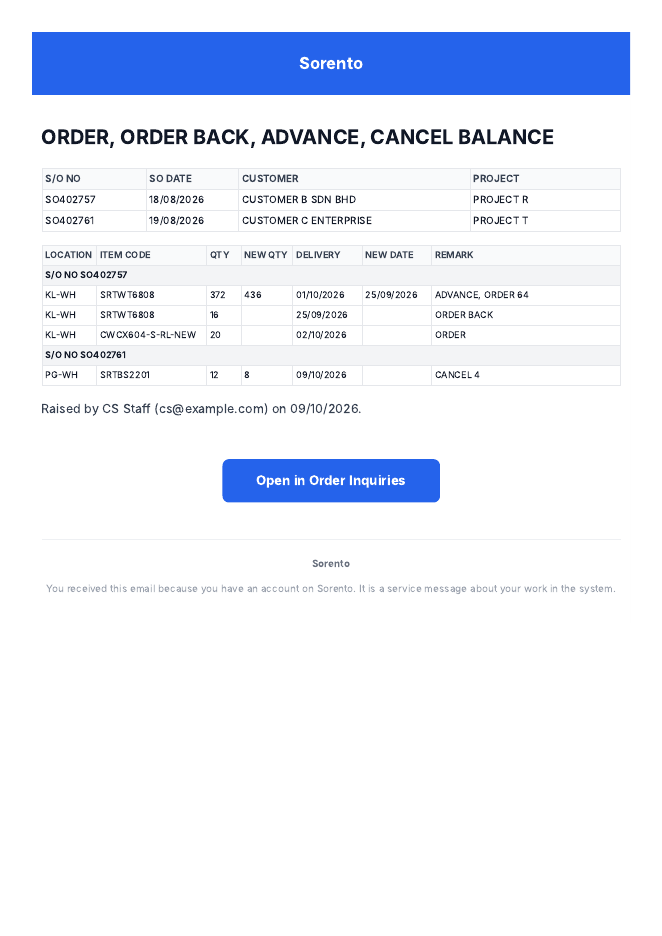
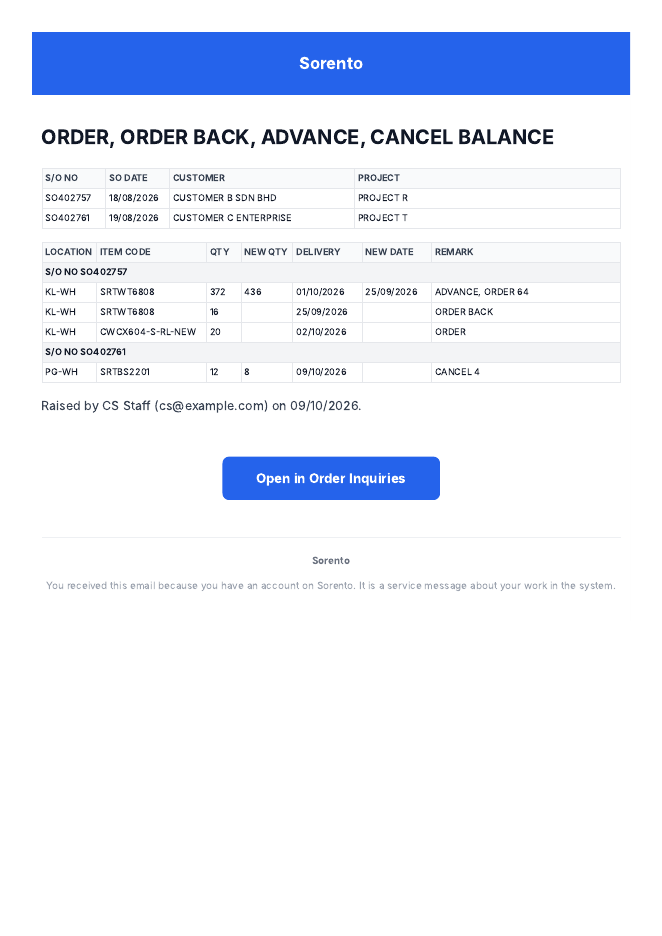
fix(scm): OI handover order table gives PROJECT the room (OI-EMAIL-PRINT)
Owner retest (SO421287): PROJECT wrapped to 4 lines while S/O NO and SO DATE sat in empty
width. The order table is now 11px like the line table, S/O NO and SO DATE at their
no-wrap minimum (11% each), CUSTOMER 32%, PROJECT 46%; width attributes and styles alike.

Claude-Session: https://claude.ai/code/session_0128QV6Rszh9fo9ABpWJyzZC

diff --git a/documentation/plans/scm/evidence/oi-email-print/print_check.js b/documentation/plans/scm/evidence/oi-email-print/print_check.js
@@ -3,7 +3,7 @@ const fs = require('fs');
 const dir = process.argv[2];
 (async () => {
   const b = await chromium.launch({ executablePath: '/opt/pw-browsers/chromium-1194/chrome-linux/chrome' });
-  for (const c of ['case1', 'case2', 'case3', 'case4', 'case5', 'case6', 'case7']) {
+  for (const c of ['case1', 'case2', 'case3', 'case4', 'case5', 'case6', 'case7', 'case8']) {
     const p = await b.newPage({ viewport: { width: 698, height: 1000 } });
     await p.setContent(fs.readFileSync(`${dir}/${c}.html`, 'utf8'));
     const m = await p.evaluate(() => {
@@ -20,7 +20,10 @@ const dir = process.argv[2];
       const tableW = Math.round(t[1].getBoundingClientRect().width);
       const remarkTd = [...t[1].querySelectorAll('tbody tr')].filter(r => r.children.length > 1).map(r => r.lastElementChild);
       const remarkSlack = Math.min(...remarkTd.map(td => { const rg = document.createRange(); rg.selectNodeContents(td); return Math.round(td.getBoundingClientRect().width - rg.getBoundingClientRect().width); }));
-      return { colW, tableW, remarkSlack, remarkLines, scrollWidth: document.documentElement.scrollWidth, card, rows: t[1].querySelectorAll('tbody tr').length, multi: [...new Set(multi)] };
+      const head = t[0];
+      const headCols = [...head.querySelectorAll('thead th')].map(th => th.textContent.trim() + ':' + Math.round(th.getBoundingClientRect().width));
+      const headLines = [...head.querySelectorAll('tbody td')].map(td => { const lh = parseFloat(getComputedStyle(td).lineHeight) || 16; const rg = document.createRange(); rg.selectNodeContents(td); return [td.textContent.trim().slice(0, 24), Math.round(rg.getBoundingClientRect().height / lh)]; });
+      return { headCols, headLines, colW, tableW, remarkSlack, remarkLines, scrollWidth: document.documentElement.scrollWidth, card, rows: t[1].querySelectorAll('tbody tr').length, multi: [...new Set(multi)] };
     });
     await p.emulateMedia({ media: 'print' });
     const pdf = await p.pdf({ preferCSSPageSize: true, printBackground: true });

diff --git a/sorento_crm_backend/alembic/versions/oihr_0005_print_one_page.py b/sorento_crm_backend/alembic/versions/oihr_0005_print_one_page.py
@@ -75,7 +75,7 @@ _PRINT_LAYOUT = json.loads(r'''{
    "type": "heading"
   },
   {
-   "html": "<table width=\"100%\" style=\"font-size:12px;line-height:16px;\">\n  <thead>\n    <tr><th width=\"18%\" style=\"width:18%;white-space:nowrap;padding:4px;\">S/O NO</th><th width=\"16%\" style=\"width:16%;white-space:nowrap;padding:4px;\">SO DATE</th><th width=\"40%\" style=\"width:40%;white-space:nowrap;padding:4px;\">CUSTOMER</th><th width=\"26%\" style=\"width:26%;white-space:nowrap;padding:4px;\">PROJECT</th></tr>\n  </thead>\n  <tbody>\n    {% for order in handover.orders %}\n    <tr>\n      <td style=\"white-space:nowrap;padding:4px;\">{{ order.so_number | default(\"\", true) }}</td>\n      <td style=\"white-space:nowrap;padding:4px;\">{{ order.so_date | default(\"\", true) }}</td>\n      <td style=\"padding:4px;\">{{ order.customer | default(\"\", true) }}</td>\n      <td style=\"padding:4px;\">{{ order.project | default(\"\", true) }}</td>\n    </tr>\n    {% endfor %}\n  </tbody>\n</table>\n{%- set cols = namespace(qty=false, delivery_date=false) -%}{%- for line in handover.lines -%}{%- if line.was and line.was.qty %}{% set cols.qty = true %}{% endif -%}{%- if line.was and line.was.delivery_date %}{% set cols.delivery_date = true %}{% endif -%}{%- endfor -%}\n{%- set span = 5 + (1 if cols.qty else 0) + (1 if cols.delivery_date else 0) -%}\n{%- set grouped = handover.orders | length > 1 -%}\n{%- if cols.qty and cols.delivery_date %}{% set w = namespace(loc=9, code=19, qty=6, new_qty=9, dd=12, new_dd=12, remark=33) %}\n{%- elif cols.qty %}{% set w = namespace(loc=12, code=24, qty=9, new_qty=11, dd=16, new_dd=0, remark=28) %}\n{%- elif cols.delivery_date %}{% set w = namespace(loc=12, code=23, qty=9, new_qty=0, dd=15, new_dd=15, remark=26) %}\n{%- else %}{% set w = namespace(loc=14, code=28, qty=10, new_qty=0, dd=18, new_dd=0, remark=30) %}{% endif -%}\n<table width=\"100%\" style=\"font-size:11px;line-height:15px;\">\n  <thead style=\"display:table-header-group;\">\n    <tr>\n      <th width=\"{{ w.loc }}%\" style=\"width:{{ w.loc }}%;white-space:nowrap;padding:4px;\">LOCATION</th><th width=\"{{ w.code }}%\" style=\"width:{{ w.code }}%;white-space:nowrap;padding:4px;\">ITEM CODE</th>\n      <th width=\"{{ w.qty }}%\" style=\"width:{{ w.qty }}%;white-space:nowrap;padding:4px;\">QTY</th>{% if cols.qty %}<th width=\"{{ w.new_qty }}%\" style=\"width:{{ w.new_qty }}%;white-space:nowrap;padding:4px;\">NEW QTY</th>{% endif %}\n      <th width=\"{{ w.dd }}%\" style=\"width:{{ w.dd }}%;white-space:nowrap;padding:4px;\">DELIVERY</th>{% if cols.delivery_date %}<th width=\"{{ w.new_dd }}%\" style=\"width:{{ w.new_dd }}%;white-space:nowrap;padding:4px;\">NEW DATE</th>{% endif %}\n      <th width=\"{{ w.remark }}%\" style=\"width:{{ w.remark }}%;white-space:nowrap;padding:4px;\">REMARK</th>\n    </tr>\n  </thead>\n  <tbody>\n    {% for line in handover.lines %}\n    {% if grouped and (loop.first or line.so_number != loop.previtem.so_number) %}\n    <tr style=\"page-break-inside:avoid;\"><td colspan=\"{{ span }}\" style=\"white-space:nowrap;padding:4px;background-color:#f3f4f6;font-weight:600;\">S/O NO {{ line.so_number | default(\"\", true) }}</td></tr>\n    {% endif %}\n    <tr style=\"page-break-inside:avoid;\">\n      <td style=\"white-space:nowrap;padding:4px;\">{{ line.location | default(\"\", true) }}</td>\n      <td style=\"white-space:nowrap;padding:4px;\">{{ line.item_code | default(\"\", true) }}</td>\n      <td style=\"white-space:nowrap;padding:4px;\">{% if line.was and line.was.qty %}{{ line.was.qty }}{% else %}{{ line.qty | default(\"\", true) }}{% endif %}</td>\n      {% if cols.qty %}<td style=\"white-space:nowrap;padding:4px;\">{% if line.was and line.was.qty %}{{ line.qty | default(\"\", true) }}{% endif %}</td>{% endif %}\n      <td style=\"white-space:nowrap;padding:4px;\">{% if line.was and line.was.delivery_date %}{{ line.was.delivery_date }}{% else %}{{ line.delivery_date | default(\"\", true) }}{% endif %}</td>\n      {% if cols.delivery_date %}<td style=\"white-space:nowrap;padding:4px;\">{% if line.was and line.was.delivery_date %}{{ line.delivery_date | default(\"\", true) }}{% endif %}</td>{% endif %}\n      <td style=\"padding:4px;\">{{ line.remark | default(\"\", true) }}{% if line.attachments %}<br>Attachments: {% for a in line.attachments %}{% if not loop.first %}, {% endif %}{% if a.attached %}{{ a.name }}{% else %}<a href=\"{{ a.url }}\">{{ a.name }}</a> (not attached, too large for email){% endif %}{% endfor %}{% endif %}</td>\n    </tr>\n    {% endfor %}\n  </tbody>\n</table>\n<p>Raised by {{ actor.name if actor else '-' }}{% if actor %} ({{ actor.email }}){% endif %} on {{ today }}.</p>",
+   "html": "<table width=\"100%\" style=\"font-size:11px;line-height:15px;\">\n  <thead>\n    <tr><th width=\"11%\" style=\"width:11%;white-space:nowrap;padding:4px;\">S/O NO</th><th width=\"11%\" style=\"width:11%;white-space:nowrap;padding:4px;\">SO DATE</th><th width=\"32%\" style=\"width:32%;white-space:nowrap;padding:4px;\">CUSTOMER</th><th width=\"46%\" style=\"width:46%;white-space:nowrap;padding:4px;\">PROJECT</th></tr>\n  </thead>\n  <tbody>\n    {% for order in handover.orders %}\n    <tr>\n      <td style=\"white-space:nowrap;padding:4px;\">{{ order.so_number | default(\"\", true) }}</td>\n      <td style=\"white-space:nowrap;padding:4px;\">{{ order.so_date | default(\"\", true) }}</td>\n      <td style=\"padding:4px;\">{{ order.customer | default(\"\", true) }}</td>\n      <td style=\"padding:4px;\">{{ order.project | default(\"\", true) }}</td>\n    </tr>\n    {% endfor %}\n  </tbody>\n</table>\n{%- set cols = namespace(qty=false, delivery_date=false) -%}{%- for line in handover.lines -%}{%- if line.was and line.was.qty %}{% set cols.qty = true %}{% endif -%}{%- if line.was and line.was.delivery_date %}{% set cols.delivery_date = true %}{% endif -%}{%- endfor -%}\n{%- set span = 5 + (1 if cols.qty else 0) + (1 if cols.delivery_date else 0) -%}\n{%- set grouped = handover.orders | length > 1 -%}\n{%- if cols.qty and cols.delivery_date %}{% set w = namespace(loc=9, code=19, qty=6, new_qty=9, dd=12, new_dd=12, remark=33) %}\n{%- elif cols.qty %}{% set w = namespace(loc=12, code=24, qty=9, new_qty=11, dd=16, new_dd=0, remark=28) %}\n{%- elif cols.delivery_date %}{% set w = namespace(loc=12, code=23, qty=9, new_qty=0, dd=15, new_dd=15, remark=26) %}\n{%- else %}{% set w = namespace(loc=14, code=28, qty=10, new_qty=0, dd=18, new_dd=0, remark=30) %}{% endif -%}\n<table width=\"100%\" style=\"font-size:11px;line-height:15px;\">\n  <thead style=\"display:table-header-group;\">\n    <tr>\n      <th width=\"{{ w.loc }}%\" style=\"width:{{ w.loc }}%;white-space:nowrap;padding:4px;\">LOCATION</th><th width=\"{{ w.code }}%\" style=\"width:{{ w.code }}%;white-space:nowrap;padding:4px;\">ITEM CODE</th>\n      <th width=\"{{ w.qty }}%\" style=\"width:{{ w.qty }}%;white-space:nowrap;padding:4px;\">QTY</th>{% if cols.qty %}<th width=\"{{ w.new_qty }}%\" style=\"width:{{ w.new_qty }}%;white-space:nowrap;padding:4px;\">NEW QTY</th>{% endif %}\n      <th width=\"{{ w.dd }}%\" style=\"width:{{ w.dd }}%;white-space:nowrap;padding:4px;\">DELIVERY</th>{% if cols.delivery_date %}<th width=\"{{ w.new_dd }}%\" style=\"width:{{ w.new_dd }}%;white-space:nowrap;padding:4px;\">NEW DATE</th>{% endif %}\n      <th width=\"{{ w.remark }}%\" style=\"width:{{ w.remark }}%;white-space:nowrap;padding:4px;\">REMARK</th>\n    </tr>\n  </thead>\n  <tbody>\n    {% for line in handover.lines %}\n    {% if grouped and (loop.first or line.so_number != loop.previtem.so_number) %}\n    <tr style=\"page-break-inside:avoid;\"><td colspan=\"{{ span }}\" style=\"white-space:nowrap;padding:4px;background-color:#f3f4f6;font-weight:600;\">S/O NO {{ line.so_number | default(\"\", true) }}</td></tr>\n    {% endif %}\n    <tr style=\"page-break-inside:avoid;\">\n      <td style=\"white-space:nowrap;padding:4px;\">{{ line.location | default(\"\", true) }}</td>\n      <td style=\"white-space:nowrap;padding:4px;\">{{ line.item_code | default(\"\", true) }}</td>\n      <td style=\"white-space:nowrap;padding:4px;\">{% if line.was and line.was.qty %}{{ line.was.qty }}{% else %}{{ line.qty | default(\"\", true) }}{% endif %}</td>\n      {% if cols.qty %}<td style=\"white-space:nowrap;padding:4px;\">{% if line.was and line.was.qty %}{{ line.qty | default(\"\", true) }}{% endif %}</td>{% endif %}\n      <td style=\"white-space:nowrap;padding:4px;\">{% if line.was and line.was.delivery_date %}{{ line.was.delivery_date }}{% else %}{{ line.delivery_date | default(\"\", true) }}{% endif %}</td>\n      {% if cols.delivery_date %}<td style=\"white-space:nowrap;padding:4px;\">{% if line.was and line.was.delivery_date %}{{ line.delivery_date | default(\"\", true) }}{% endif %}</td>{% endif %}\n      <td style=\"padding:4px;\">{{ line.remark | default(\"\", true) }}{% if line.attachments %}<br>Attachments: {% for a in line.attachments %}{% if not loop.first %}, {% endif %}{% if a.attached %}{{ a.name }}{% else %}<a href=\"{{ a.url }}\">{{ a.name }}</a> (not attached, too large for email){% endif %}{% endfor %}{% endif %}</td>\n    </tr>\n    {% endfor %}\n  </tbody>\n</table>\n<p>Raised by {{ actor.name if actor else '-' }}{% if actor %} ({{ actor.email }}){% endif %} on {{ today }}.</p>",
    "type": "custom_text"
   },
   {

diff --git a/documentation/plans/scm/evidence/oi-email-print/render_real.py b/documentation/plans/scm/evidence/oi-email-print/render_real.py
@@ -95,7 +95,8 @@ cases = {
              stock_location="KL-WH"),
     ],
     "case6": [  # owner's hand test SO421287: one line, 5 columns, "ORDER, NEW ITEM CODE"
-        item("SO421287", "06/10/2026", "p7", "CUSTOMER H SDN BHD", "PROJECT Q", "raised", 1,
+        item("SO421287", "06/10/2026", "p7", "CUSTOMER H TRADING & ENGINEERING SDN BHD",
+             "CADANGAN PEMBANGUNAN 2 BLOK PANGSAPURI SERVIS 38 TINGKAT DI LOT 1234, MUKIM BATU, KUALA LUMPUR", "raised", 1,
              verb=IV_ORDER, qty=12, delivery_date=D(2026, 11, 6), item_code="SRT382-6-DIY",
              stock_location="KL-WH", was={"item_code": "SRT382-6"}),
     ],
@@ -106,6 +107,12 @@ cases = {
         item("SO421300", "07/10/2026", "p8", "CUSTOMER J SDN BHD", "PROJECT W", "settled", 2,
              verb=IV_ORDER, qty=30, delivery_date=D(2026, 11, 13), item_code="SRT382-6-DIY",
              stock_location="KL-WH", was={"item_code": "SRT382-6", "qty": 24, "delivery_date": D(2026, 11, 6)}),
+    ],
+    "case8": [  # longest project text we model (150 chars) and a long customer
+        item("SO421400", "08/10/2026", "p9", "CUSTOMER K INTERIOR DESIGN AND BUILD SOLUTIONS (M) SDN BHD",
+             "CADANGAN MEMBINA DAN MENYIAPKAN 3 BLOK KONDOMINIUM 45 TINGKAT BESERTA KEMUDAHAN, TEMPAT LETAK KERETA DAN PUSAT KOMERSIAL DI ATAS LOT 5678, SEKSYEN 13",
+             "raised", 1, verb=IV_ORDER, qty=12, delivery_date=D(2026, 11, 6), item_code="SRTWT6808",
+             stock_location="KL-WH"),
     ],
     "case3": [  # long order: 42 lines
         item("SO418900", "01/10/2026", "p4", "CUSTOMER D SDN BHD", "PROJECT M", "raised", i,

diff --git a/sorento_crm_backend/tests/test_oi_email_print.py b/sorento_crm_backend/tests/test_oi_email_print.py
@@ -568,8 +568,9 @@ def test_line_table_columns_share_the_width_in_every_variant():
 
 def test_order_table_columns_have_fixed_shares():
     """AC-P15 (owner retest 9 Oct, SO421287: PROJECT wrapped to 4 lines while S/O NO and SO
-    DATE sat in empty width): the order table is 13/13/32/42, attribute and style alike.
-    S/O NO and SO DATE never wrap; PROJECT, the longest free text, gets the most room."""
+    DATE sat in empty width): the order table is 11/11/32/46 at 11px, attribute and style
+    alike. S/O NO and SO DATE never wrap at their minimal width (71px measured); PROJECT,
+    the longest free text, gets the most room."""
     orders = [{"so_number": "SO421287", "so_date": "02/10/2026", "customer": "C", "project": "P"}]
     out = _render(_ctx(orders, [_line("SO421287", "KL-WH", "X", "1", "06/11/2026", "ORDER")]))
     table = re.findall(r"<table.*?</table>", _authored(out["body_html"]), re.S)[0]
@@ -579,5 +580,8 @@ def test_order_table_columns_have_fixed_shares():
         styles = re.findall(r"[;\"]width:(\d+)%", tag)
         assert attr and styles == [attr.group(1)], tag
         got.append((text.strip(), int(attr.group(1))))
-    assert got == [("S/O NO", 13), ("SO DATE", 13), ("CUSTOMER", 32), ("PROJECT", 42)], got
+    assert got == [("S/O NO", 11), ("SO DATE", 11), ("CUSTOMER", 32), ("PROJECT", 46)], got
+    # Same 11px as the line table, so PROJECT holds about 48 characters a line.
+    # The shell writes its defaults first in the style; the last font-size is the one that wins.
+    assert re.findall(r"font-size:(\d+)px", table.split(">", 1)[0])[-1] == "11", table[:160]
 

diff --git a/documentation/plans/scm/oi-email-print-09oct-acceptance-criteria.md b/documentation/plans/scm/oi-email-print-09oct-acceptance-criteria.md
@@ -34,9 +34,14 @@ Plan: `PLAN-oi-email-print-09oct.md`. Mock: `ALIGN-oi-email-print-09oct.html`.
   line-table header carries an explicit percentage width (`width="N%"` attribute, mirrored in
   the style), summing to 100 in each variant; ITEM CODE is the widest fixed column and REMARK
   a moderate share (5 columns 14/28/10/18/30; +NEW QTY 12/24/9/11/16/28; +NEW DATE
-  12/23/9/15/15/26; 7 columns 9/19/6/9/12/12/33). The order table is 18/16/40/26. Every
+  12/23/9/15/15/26; 7 columns 9/19/6/9/12/12/33). Every
   REMARK, including `DELAY, ORDER 6, NEW ITEM CODE` and `ORDER BACK, NEW ITEM CODE` in the
   7-column layout with a 16-char code, stays on one line.
+- **AC-P15** (owner retest 9 Oct, SO421287: PROJECT wrapped to 4 lines while S/O NO and SO
+  DATE sat in empty width) The order table is 11px like the line table, with S/O NO 11% /
+  SO DATE 11% (no wrap, 71px measured is their minimum), CUSTOMER 32% and PROJECT 46%
+  (attribute and style alike). PROJECT holds about 48 characters a line, so a project name up
+  to about 90 characters takes at most 2 lines; longer names wrap further.
 - **AC-P8** The rendered mail's card is 672px wide (`print` width), side gutters 12px; the shell's
   `<style>` carries an `@media print` rule and `@page { size: A4 portrait }`.
 - **AC-P9** Printing the mock's "after" email in Chromium to A4 portrait gives one page for 12 lines

diff --git a/documentation/plans/scm/PLAN-oi-email-print-09oct.md b/documentation/plans/scm/PLAN-oi-email-print-09oct.md
@@ -1,6 +1,6 @@
 # PLAN: OI handover email - no multi-line cells, fits one printed page (OI-EMAIL-PRINT)
 
-Status: Build complete; owner hand test 9 Oct passed the REMARK wording and asked for balanced column widths (AC-P14), built; on review + hand test (feature track, abbreviated per the crew brief; carries one data migration on `email_templates`, so not the small fix track).
+Status: Build complete; owner retests 9 Oct: REMARK wording OK, line table OK, order table rebalanced (AC-P15), built; on review + hand test (feature track, abbreviated per the crew brief; carries one data migration on `email_templates`, so not the small fix track).
 Lane: OI-EMAIL-PRINT, branch `claude/oi-email-print-ucrsgl`, PR #1543
 Domain: scm (order inquiry handover email, `order_inquiry_handover` automation) + email layout shell
 UAC: `oi-email-print-09oct-acceptance-criteria.md` alongside
